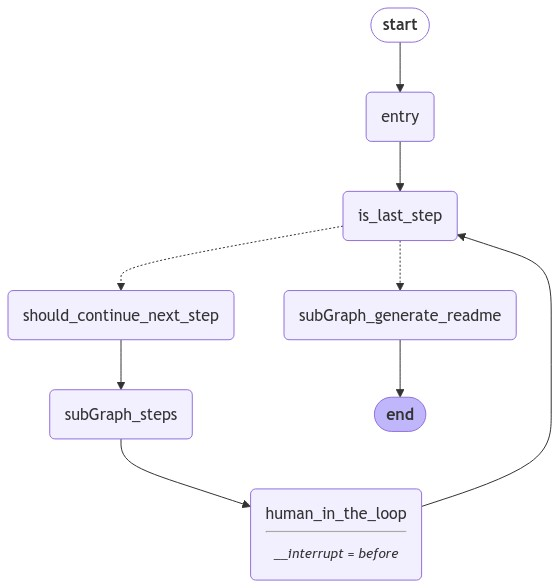
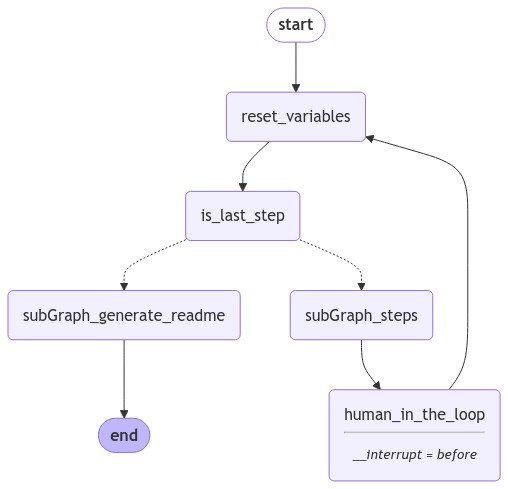
fix errors

diff --git a/app/agents/main_graph.py b/app/agents/main_graph.py
@@ -20,47 +20,35 @@ def is_last_step(state):
         print("True: generate readme")
         return n(subGraph_generate_readme)
     print("False: move to next step")
-    return n(should_continue_next_step)
-
-def should_continue_next_step(state):
-    print("\n>>>> EDGE: should_continue_next_step")
-    if int(state["current_step"]) == int(state["previous_step"]):
-        print("False")
-        return {
-            "retrieved_chunks": "RESET",
-        }
-    else:
-        print("True")
-        return {
-            "previous_step": int(state["current_step"]),
-            "retrieved_chunks": "RESET",
-        }
+    return n(subGraph_steps)
 
 g = StateGraph(State)
-g.set_entry_point("entry")
+g.set_entry_point("reset_variables")
 
-g.add_node("entry", RunnablePassthrough())
-g.add_edge("entry", "is_last_step")
+g.add_node(
+    "reset_variables",
+    lambda state: {
+        #! Always reset variables in the root level.
+        "previous_step": int(state["current_step"]),
+        "retrieved_chunks": "RESET", #TODO: Need to handle conditionally
+        "valid_paths": "RESET",
+        "corrected_paths": [],
+    },
+)
+g.add_edge("reset_variables", "is_last_step")
 
 g.add_node("is_last_step", RunnablePassthrough())
 g.add_conditional_edges(
     "is_last_step",
     is_last_step,
-    to_path_map(
-        [n(subGraph_generate_readme),
-         n(should_continue_next_step)]
-    ),
+    to_path_map([n(subGraph_generate_readme), n(subGraph_steps)]),
 )
-
-g.add_node(n(should_continue_next_step), should_continue_next_step)
-g.add_edge(n(should_continue_next_step), n(subGraph_steps))
-
 
 g.add_node(n(subGraph_steps), subGraph_steps)
 g.add_edge(n(subGraph_steps), "human_in_the_loop")
 
 g.add_node("human_in_the_loop", RunnablePassthrough())
-g.add_edge("human_in_the_loop", "is_last_step")
+g.add_edge("human_in_the_loop", "reset_variables")
 
 g.add_node(n(subGraph_generate_readme), subGraph_generate_readme)
 g.add_edge(n(subGraph_generate_readme), END)

diff --git a/app/agents/subgraphs/steps/answer_step_question.py b/app/agents/subgraphs/steps/answer_step_question.py
@@ -5,7 +5,7 @@ from langchain_core.prompts import ChatPromptTemplate
 from langchain_core.messages import HumanMessage, AIMessage
 
 from app.agents.state_schema import State
-from app.agents.common import chat_model
+from app.agents.llm_models import chat_model
 from app.utils.get_user_picked_file_paths import get_user_picked_file_paths
 
 class Answer(BaseModel):
@@ -76,6 +76,7 @@ def answer_step_question(state: State) -> State:
     for step_num, step_results in results.items():
         if int(step_num) < int(state["current_step"]):
             previous_step_answers.append(step_results[-1]["answer"])
+    previous_step_answers_str = '\n'.join(previous_step_answers)
 
     response = chain.invoke(
         {
@@ -83,7 +84,7 @@ def answer_step_question(state: State) -> State:
             "retrieved_chunks": f"<code_snippets>{json.dumps(state['retrieved_chunks'], ensure_ascii=False)}</code_snippets>\n" if state["retrieved_chunks"] else "",
             "user_feedback": f"<extra_instruction>{state.get('user_feedback', '')}</extra_instruction>\n" if state.get("user_feedback", "") else "",
             "repo_info": f"<repo_info>{repo_info_str}</repo_info>\n" if repo_info_str else "",
-            "previous_step_answers": f"<key_information>{', '.join(previous_step_answers)}\n</key_information>\n" if previous_step_answers else "",
+            "previous_step_answers": f"<key_information>\n{previous_step_answers_str}\n</key_information>\n" if previous_step_answers else "",
         }
     )
 

diff --git a/app/controllers/step.py b/app/controllers/step.py
@@ -1,22 +1,18 @@
 import json
-import time
 from fasthtml.common import *
-from pprint import pprint
 
-from app.components.step import Step
 from app.utils.db_functions import (
     insert_step_db,
     update_readme_content,
     insert_step_results,
 )
 from app.utils.check_quota import check_quota
-from app.agents.main_graph import main_graph
-from app.utils.initialize_db import db
 from app.utils.error_responses import error_modal
+from app.utils.initialize_db import db
+
+from app.agents.main_graph import main_graph
 
 from app.step_list import STEP_LIST
-from app.agents.state_schema import State
-from app.agents.state_schema import RetrievalMethod
 
 
 async def step_handler(
@@ -94,17 +90,6 @@ async def step_handler(
 
 async def generate_readme(session, project_id: str, request: Request):
     print("\n>>>> CTRL: generate_readme")
-    if os.getenv("DEBUG", "false").lower() == "true":
-        # print("DEBUG MODE. SKIP GRAPH")
-        r = update_readme_content(project_id, "DEBUG MODE. README GENERATED")
-        if r:
-            full_route = str(request.url_for("generate_readme"))
-            route = full_route.replace(str(request.base_url), "")
-            return RedirectResponse(
-                url=f"/{route}?project_id={project_id}", status_code=303
-            )
-        else:
-            return error_modal("Error: update_readme_content failed")
 
     config = {"configurable": {"thread_id": project_id}}
     r = main_graph.update_state(

diff --git a/app/agents/subgraphs/generate_readme/generate_readme.py b/app/agents/subgraphs/generate_readme/generate_readme.py
@@ -1,3 +1,5 @@
+import os
+
 from langchain_core.prompts import ChatPromptTemplate
 from langchain_core.messages import (
     AIMessage,
@@ -5,7 +7,7 @@ from langchain_core.messages import (
 )
 from app.agents.state_schema import State
 
-from app.agents.common import chat_model
+from app.agents.llm_models import chat_model
 
 from langchain_core.pydantic_v1 import BaseModel, Field
 
@@ -18,7 +20,6 @@ def generate_readme(state: State):
     repo_info = []
     repo_info.append(f"Directory Tree: {state['directory_tree']}")
     repo_info.append(f"Packages Used: {state['packages_used']}")
-
 
     step_answers = []
     for step_num, results in state["results"].items():
@@ -35,6 +36,20 @@ def generate_readme(state: State):
 
     chain = prompt | chat_model.with_structured_output(Readme)
 
+    if os.getenv("SKIP_LLM_CALLINGS", "false").lower() == "true":
+        print("DEBUG MODE: SKIP answer_step_question node")
+        return {
+            "generated_readme": "DEBUG MODE: SKIP generate_readme node",
+            "results": {
+                "final": [
+                    {
+                        "answer": "DEBUG MODE: SKIP generate_readme node",
+                        "opened_files": [],
+                    }
+                ]
+            },
+        }
+    
     readme = chain.invoke(
         {
             "step_answers": f"<step_answers>{', '.join(step_answers)}</step_answers>\n" if step_answers else "",

diff --git a/main.py b/main.py
@@ -10,7 +10,7 @@ import app.views.step as step_views
 import app.views.history as history_views
 import app.controllers.init as init_controller
 import app.controllers.step as step_controller
-import app.controllers.api as api
+import app.controllers.admin as admin
 
 from app.agents.state_schema import RetrievalMethod
 from app.utils.initialize_db import db
@@ -33,12 +33,10 @@ def user_auth_before(req, session):
         print("initializing retrieval_method")
         session["retrieval_method"] = RetrievalMethod.FAISS.name
 
-
 beforeware = Beforeware(
     user_auth_before,
     skip=[r"/favicon\.ico", r"/static/.*", r".*\.css", r".*\.js", "/login"],
 )
-
 
 app, _ = fast_app(
     live=True,
@@ -140,7 +138,7 @@ app.get("/")(main_views.home_view)
 app.get("/step")(step_views.step_view)
 app.get("/step/final")(step_views.result_view)
 app.get("/history")(history_views.history_view)
-app.get("/download_db")(api.download_db)
+app.get("/download_db")(admin.download_db)
 
 app.post("/init")(init_controller.step_initializer)
 app.post("/step")(step_controller.step_handler)

diff --git a/app/agents/subgraphs/steps/retrieval/retrieve_with_faiss.py b/app/agents/subgraphs/steps/retrieval/retrieve_with_faiss.py
@@ -1,7 +1,5 @@
 import os
-import gc
 import pickle
-import psutil
 
 from langchain_openai import OpenAIEmbeddings
 from langchain_openai.embeddings import OpenAIEmbeddings
@@ -11,7 +9,7 @@ from langchain_community.vectorstores import FAISS
 
 from app.agents.state_schema import State
 
-from .utils.chunking import chunk_with_AST_parser
+from .chunking import chunk_with_AST_parser
 
 
 def retrieve_with_faiss(state: State):
@@ -58,13 +56,12 @@ def retrieve_with_faiss(state: State):
     bm25_retriever.k = 2
 
     faiss_retriever = faiss_vectorstore.as_retriever(search_kwargs={"k": 2})
-
     ensemble_retriever = EnsembleRetriever(
         retrievers=[bm25_retriever, faiss_retriever], weights=[0.5, 0.5]
     )
     retrieved_code_snippets = []
     for query in state["step_question"]["queries"]:  # TODO parallelize this
-        result = ensemble_retriever.invoke(query)
+        result = faiss_retriever.invoke(query)
         retrieved_code_snippets.extend(result)
 
     print(f"Retrieved {len(retrieved_code_snippets)} code snippets (hybrid search)")

diff --git a/app/agents/subgraphs/steps/retrieval/validate_file_path.py b/app/agents/subgraphs/steps/retrieval/validate_file_path.py
@@ -3,7 +3,7 @@ from pathlib import Path
 
 from app.agents.state_schema import State
 
-from app.agents.common import chat_model
+from app.agents.llm_models import chat_model
 from langchain_core.pydantic_v1 import BaseModel
 from langchain_core.prompts import ChatPromptTemplate
 
@@ -14,6 +14,12 @@ class PathCorrection(BaseModel):
 
 def validate_file_paths_from_LLM(state: State):
     print("\n>>>> NODE: validate_file_paths_from_LLM")
+    if os.getenv("SKIP_LLM_CALLINGS", "false").lower() == "true":
+        print("DEBUG MODE: SKIP validate_file_paths_from_LLM node")
+        invalid_paths = []
+        return {
+            "valid_paths": [],
+        }
 
     FILE_PATH_VALIDATION_TRIES = 3
     root_path = str(Path(state["cache_dir"]) / "cloned_repositories" / state["title"])
@@ -40,6 +46,7 @@ def validate_file_paths_from_LLM(state: State):
             break
 
         print(f"Invalid paths: {invalid_paths}")
+
         invalid_paths = chain.invoke(
             {
                 "invalid_paths": ", ".join(invalid_paths),

diff --git a/app/agents/state_schema.py b/app/agents/state_schema.py
@@ -8,8 +8,9 @@ class StepQ(TypedDict):
         "prompt": "What is the entry point of the codebase?",
         "queries": ["Entry point of the codebase", "How to run the codebase"],
         "feedback_question": "Is this the entry point of your project?",
+        "retrieval_needed": "True" or "False",
+        "repo_info_to_look_up": ["repo_description_by_user", "directory_tree", "packages_used"],
     """
-
     prompt: str
     queries: list[str]
     feedback_question: str
@@ -98,12 +99,12 @@ class State(TypedDict):
     colbert_threshold: float
 
     # Ephemeral Variables
-    # Will be reset after each step
+    # Will be RESET after each step
     valid_paths: Annotated[List[str], merge_lists]
     corrected_paths: List[str]
 
     # Short Term Memory
-    # Will be updated after each step
+    # May be UPDATED after each step
     previous_step: int
     current_step: int
     retrieved_chunks: Annotated[Dict[str, str], handle_retrieved_chunks]

diff --git a/app/agents/subgraphs/steps/refine_retrieved_chunks.py b/app/agents/subgraphs/steps/refine_retrieved_chunks.py
@@ -7,7 +7,7 @@ from langchain_core.prompts import ChatPromptTemplate
 from langchain_core.messages import HumanMessage, AIMessage
 
 from app.agents.state_schema import State
-from app.agents.common import chat_model_small
+from app.agents.llm_models import chat_model_small
 
 
 def trim_retrieved_chunk(question: str, retrieved_chunks: str) -> str:
@@ -24,7 +24,7 @@ Output: Return ONLY the shortened code snippets without any additional explanati
 
     chain = prompt | chat_model_small
 
-    if os.getenv("DEBUG", "false") == "true":
+    if os.getenv("SKIP_LLM_CALLINGS", "false").lower() == "true":
         return retrieved_chunks
 
     response = chain.invoke(

diff --git a/app/agents/subgraphs/steps/retrieval/retrieve_with_colbert.py b/app/agents/subgraphs/steps/retrieval/retrieve_with_colbert.py
@@ -1,15 +1,12 @@
 import os
-import gc
 import pickle
-import psutil
-from pathlib import Path
 
 from ragatouille import RAGPretrainedModel
 
 from app.agents.state_schema import State
 
-from .utils.chunking import chunk_with_AST_parser
-from .utils.index_for_colbert import index_documents_with_colbert
+from .chunking import chunk_with_AST_parser
+from .index_for_colbert import index_documents_with_colbert
 
 
 def retrieve_with_colbert(state: State):

diff --git a/app/agents/subgraphs/steps/retrieval/graph.py b/app/agents/subgraphs/steps/retrieval/graph.py
@@ -15,13 +15,7 @@ from .retrieve_with_faiss import retrieve_with_faiss
 g = StateGraph(State)
 g.set_entry_point("entry")
 
-g.add_node(
-    "entry",
-    lambda _: {
-        "retrieved_chunks": "RESET",
-        "valid_paths": "RESET",
-    },
-)
+g.add_node("entry", RunnablePassthrough())
 g.add_edge("entry", n(add_user_chosen_files))
 g.add_edge("entry", n(validate_file_paths_from_LLM))
 g.add_edge("entry", "choose_retrieval_method")

diff --git a/app/views/step.py b/app/views/step.py
@@ -1,5 +1,5 @@
 from fasthtml.common import *
-from app.components.pages import StepPage
+from app.views.components.pages import StepPage
 
 from app.step_list import STEP_LIST
 from app.utils.initialize_db import db
